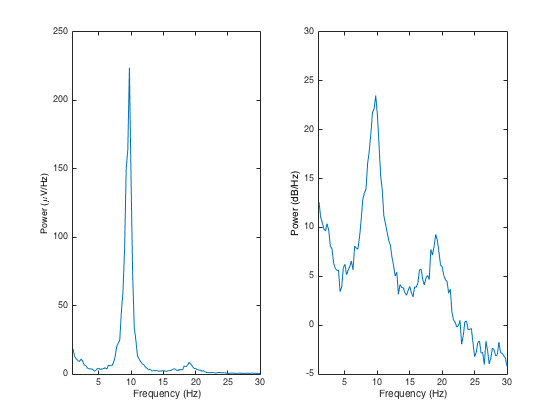
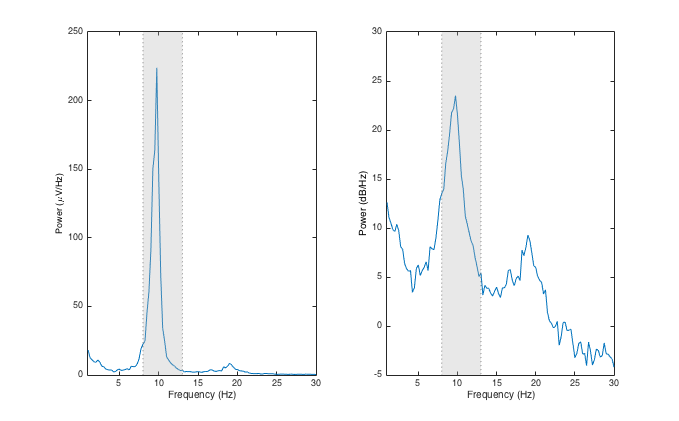
add alpha band indicators to eg paf figs

diff --git a/iaf_manu.md b/iaf_manu.md
@@ -45,10 +45,10 @@ $$ PAF = \text{arg max}_{\substack{x\in A \subseteq PSD }} f(x) \iff \text{arg m
 $$ \text{arg max}_{\substack{x\in A \subseteq PSD }} f(x) := \{ x \mid x  \in A \land \forall y \in A : f(y) \leq f(x) \} , $$
 
 where $\text{arg max}$ returns the frequency bin (or subset of bins) $f(x)$ containing the maximal power value $\text{max } f(x)$ registered within that subset of frequency bins $A$ that constitute the alpha band, and where $PSD$ denotes the complete set of frequency bins resolved by the spectral analysis. 
-Note that, for the output of $\text{arg max }$ to qualify as an estimate of PAF, it must return a single frequency bin $f(x)$ containing a power value exceeding $\phi$, where $\phi$ defines the minimal threshold differentiating a substantive spectral peak from background noise. 
+Note that, for the output of $\text{arg max}$ to qualify as an estimate of PAF, it must return a single frequency bin $f(x)$ containing a power value exceeding $\phi$, where $\phi$ defines the minimal threshold differentiating a substantive spectral peak from background noise. 
 The definition of both $A$ and $\phi$ parameters pose non-trivial problems, to which we shall return shortly.
 
-![*Fig_s6_paf_poz.* Power spectral density (PSD) plots displaying average variance of the EEG signal recorded over POz for frequency bins resolved in the range of 1 to 30 Hz. PSD estimates derived from a 2 min eyes-closed resting-state EEG recording. *Left panel*: Linear scaled PSD. Strong alpha band activity is evidenced by a sharp component spanning ~7.5 to 12.5 Hz, and peaking at ~9.75 Hz. *Right panel*: Alternative depiction of PSD displayed in the left panel, where ordinate data have been base-10 log-transformed (note, some researchers likewise tranform the frequency axis when depicting log-transformed PSDs). In this case, log-transformation has the effect of accentuating the relatively minor peak detected in the beta range of the spectrum (this activity approximates the first harmonic of the dominant alpha rhythm).](s6_paf_poz.png){#s6_paf_poz}
+![*Fig_s6_paf_poz.* Power spectral density (PSD) plots displaying average variance of the EEG signal recorded over POz for frequency bins resolved in the range of 1 to 30 Hz. PSD estimates derived from a 2 min eyes-closed resting-state EEG recording. Light grey column signifies alpha band interval, which constitutes the peak frequency search window. *Left panel*: Linear scaled PSD. Strong alpha band activity is evidenced by a sharp component spanning ~7.5 to 12.5 Hz, and peaking at ~9.75 Hz. *Right panel*: Alternative depiction of left panel PSD in which ordinate data have been base-10 log-transformed (note, some researchers likewise tranform the frequency axis when depicting log-transformed PSDs). In this case, log-transformation has the effect of accentuating the relatively minor peak detected in the beta range of the spectrum (this activity approximates the first harmonic of the dominant alpha rhythm).](s6_paf_poz.png){#s6_paf_poz}
 
 PAF estimates are typically extracted from parieto-occipital EEG channels while the participant relaxes with their eyes closed.
 This strategy exploits the classic observation that alpha oscillations dominate the EEG recorded over centro-posterior scalp regions when visual sensory input is suppressed [@barry2007;@sadaghiani2016]. 
@@ -57,7 +57,7 @@ Moreover, it is well documented that a sizeable proportion of individuals fail t
 Under the former circumstances, the adjudicator<!-- AC: this term has proved controversial. i deliberately wanted to underscore the tacit subjectivity involved in judging whether a given PSD manifests a (singular) peak. i'm open to alteratives but would like to retain this connotation, if possible. --> must decide whether a single, primary peak can be justifiably discerned amidst competing peak candidates; under the latter, they must decide whether the signal is too noisy to derive reliable inferences pertaining to IAF. 
 Cases such as these may be prone to biased or inconsistent assessment, pose significant challenges to the replicability of analytic procedures, and can result in the exclusion of a substantial subset of participants from IAF-related analyses [see for e.g., @bornkessel-schlesewsky2015].
 
-![*Fig_bad_pafs.* Examples of problematic cases for peak alpha frequency identification. *Left panel*: Multiple peaks resolved within alpha band range. *Central panel*: Split- (or bimodal) alpha peak. *Right panel*: No discernable alpha peak. Note differences in the ordinate scaling of plots.](bad_pafs.png){#bad_pafs}
+![*Fig_bad_pafs.* Examples of problematic cases for peak alpha frequency identification. *Left panel*: Multiple peaks resolved within alpha band window (grey column). *Central panel*: Split- (or bimodal) alpha peak. *Right panel*: No discernable alpha peak. Note differences in the ordinate scaling of plots.](bad_pafs.png){#bad_pafs}
 
 While simple automated peak detection methods are relatively straightforward to implement in many popular EEG processing software packages, such strategies are prone to various sources of error. 
 For instance, searching for the maximal power estimate $\text{max } f(x)$ within the alpha window $A$ can result in the arbitrary assignment of PAF at $f_1$, the lower bound of $A$. 
@@ -85,7 +85,7 @@ Second, $f_1$ and $f_2$ are assigned to those frequency bins where the ascending
 Finally, these channel-wise $f_1$ and $f_2$ values are averaged to render the bounds of the frequency interval that will be used to calculate the participant’s CoG. 
 Notice that, even though EEG channels that fail to manifest distinctive peaks do not contribute to the definition of the IAF bandwidth, the CoG is computed on the basis of spectral data compiled from $f_1 – f_2$<!-- AC: is it better to use colon notation here ? or elipses ? --> across all available channels.
 
-![*Fig_f1f2.* Fixed vs. individually adapted alpha frequncy band windows. *Left panel*: Individual bandwidth (indicated by shaded area under PSD) closely approximates the standard alpha band range (8-13 Hz), indicated by the grey column. *Central panel*: Fixed bandwidths may fail to adequately capture broader alpha peak distributions, thus giving rise to biased estimates of alpha centre of gravity. *Right panel*: Spectral density from central panel reproduced with superposed eyes-open resting-state spectral estimates (red function). Here, the transition frequency (TF) at which the ascending edge of the eyes-closed alpha peak intersects with (and surpasses) the corresponding eyes-open power estimates (indicated by the broken black line) closely approximates the lower bound of the alpha interval $f_1$ located via qualitative analysis of the plot. In this case, the empirical TF of ~6.25 Hz deviates from standard definitions of the theta/alpha boundary, which is typically assigned in the range of 7-8 Hz. Power estimates log-scaled to aid visual identification of $f_1$ and $f_2$ [@klimesch1997].](f1f2.png){#f1f2}
+![*Fig_f1f2.* Fixed vs. individually adapted alpha frequncy band windows. *Left panel*: Individual bandwidth (indicated by shaded area under PSD) closely approximates the standard alpha band range indicated by the grey column. *Central panel*: Fixed bandwidths may fail to adequately capture broader alpha peak distributions, thus giving rise to biased estimates of alpha centre of gravity. *Right panel*: Spectral density from central panel reproduced with superposed eyes-open resting-state spectral estimates (red function). Here, the transition frequency (TF) at which the ascending edge of the eyes-closed alpha peak intersects with (and surpasses) the corresponding eyes-open power estimates (indicated by the broken black line) closely approximates the lower bound of the alpha interval $f_1$ located via qualitative analysis of the plot. In this case, the empirical TF of ~6.25 Hz deviates from standard definitions of the theta/alpha boundary, which is typically assigned in the range of 7-8 Hz. Power estimates log-scaled to aid visual identification of $f_1$ and $f_2$ [@klimesch1997].](f1f2.png){#f1f2}
 
 Klimesch [@klimesch1999] later proposed an alternative method for defining individualised alpha-band windows that relies on a somewhat less subjective interpretation of the PSD. 
 This technique exploits the typically observed anticorrelation between theta band [4–8 Hz; @noachtar1999] and alpha oscillatory dynamics in response to task demands or cognitive load [@doppelmayr1998a; @klimesch1996a; cf. @rugg1982]. 
@@ -95,20 +95,23 @@ Klimesch [@klimesch1999] proposed generalising this procedure to resting-state E
 This method thus renders a systematic means of estimating the lower alpha frequency bound $f_1$. 
 
 In the absence of any analogous means of inferring the upper bound of the alpha-band window, Klimesch [@klimesch1999] recommended determining $f_2$ on the basis of $f_1$ and the IAF.
-One suggestion was to set $f_2$ rather pragmatically at 1-2 Hz above the IAF, or alternatively to subtract the difference between IAF and $f_1$ (i.e. the lower alpha band) from some presupposed alpha bandwidth (e.g., if the alpha interval is assumed to span 5 Hz, and the individual manifests a TF of 7 Hz and an IAF of 10.5 Hz, $f_2 = 5 - (10.5 - 7) + 10.5 = 12$ Hz). 
+One suggestion was to set $f_2$ rather pragmatically at 1-2 Hz above the IAF (([Fig_findf2](#findf2)), left panels).
+Alternatively, the difference between IAF and $f_1$ (i.e. the lower alpha band) could be subtracted from some presupposed alpha bandwidth.
+For instance, if the alpha interval is assumed to span 5 Hz, and the individual manifests a TF of 7 Hz and an IAF of 10.5 Hz, then $f_2 = 5 - (10.5 - 7) + 10.5 = 12$ Hz (([Fig_findf2](#findf2)), central panels). 
 Although these approaches do indeed adjust the value of $f_2$ in relation to the IAF, they are insensitive to interindividual differences in alpha bandwidth [@doppelmayr1998; @goljahani2012]. 
-A more promising solution that attempts to capture such variance is given by calculating $f_2$ as a proportion of the difference between IAF and $f_1$ [@doppelmayr1998;@klimesch1999]; e.g., $f_2 = ( (IAF - f_1) / 2 ) + IAF$. While this heuristic offers a more nuanced approach towards individually adapted estimates of $f_2$, it clearly depends on the assumption that the proportional difference between IAF and alpha bandwidth is consistent across individuals (such that the lower alpha band spans approximately double the frequency range of the upper alpha band).
+A more promising solution that attempts to capture such variance is given by calculating $f_2$ as a proportion of the difference between IAF and $f_1$ [@doppelmayr1998;@klimesch1999]; e.g., $f_2 = ( (IAF - f_1) / 2 ) + IAF$ (([Fig_findf2](#findf2)), right panels). 
+While this heuristic offers a more nuanced approach towards individually adapted estimates of $f_2$, it clearly depends on the assumption that the proportional difference between IAF and alpha bandwidth is consistent across individuals (such that the lower alpha band spans approximately double the frequency range of the upper alpha band).
 Furthermore, all of these methods presuppose that IAF has already been estimated via the PAF (since CoG cannot be calculated prior to the definition of $f_1$ and $f_2$). 
 This is obviously problematic given that one of the chief advantages of the CoG is its supposed capacity to deliver IAF estimates when the PAF is unavailable.
 
-![*Fig_findf2.* Application of three procedures for deducing $f_2$ (right-most broken line) to the two channel spectra presented in ([Fig_f1f2](#f1f2)). In each case, $f_1$ (left-most broken line) is defined according to the transition frequency (TF), and IAF (solid line) is defined according to the peak frequency. *Top row*: Defining $f_2$ as $IAF + 2 Hz$ (left panel) and $IAF + (IAF - TF)$ (right panel) render similar results. However, defining $f_2$ as the residual of a fixed bandwidth (6 Hz) following subtraction of the lower alpha band (blue patch) fails, collapsing $f_2$ into the IAF on account of the low TF (and a consequently broad lower alpha sub-band). *Bottom row*: All three methods perform similarly to one another. In each case, the upper alpha band (red patch) appears suboptimally narrow.](findf2.png){#findf2}
+![*Fig_findf2.* Application of three procedures for deducing $f_2$ (right-most broken line) to the two channel spectra presented in ([Fig_f1f2](#f1f2)). In each case, $f_1$ (left-most broken line) is defined according to the transition frequency (TF), and IAF (solid line) is defined according to the peak frequency. *Top row*: Defining $f_2$ as $IAF + 2 Hz$ (left panel) and $IAF + (IAF - TF)$ (right panel) render similar results. However, defining $f_2$ as the residual of a fixed bandwidth (6 Hz) following subtraction of the lower alpha band (blue shading) fails, collapsing $f_2$ into the IAF on account of the low TF (and a consequently broad lower alpha sub-band). *Bottom row*: All three methods return similar estimates of $f_1$ when the lower alpha region conforms to the anticipated 3.5-4 Hz bandwidth. In this case, the upper alpha bandwidth (red shading) appears suboptimally narrow.](findf2.png){#findf2}
 
 ### 1.3 Peak attenuation and channel reactivity based (CRB) methods
 We turn now to two interesting extensions of the TF approach that depend on the alpha blocking or desynchronisation phenomenon mentioned above. 
 The first method, which we refer to as peak attenuation, was described by @posthuma2001.
 Similar in principle to Klimesch's [@klimesch1999]<!-- AC: check how to be more flexible with citation format --> delineation of the TF, this technique simply subtracts eyes-oped PSD estimates from the corresponding ordinates of the eyes-closed PSD within some a priori defined alpha-band window (e.g., 7 – 14 Hz).
 The resulting peak, which constitutes the maximal power difference between the two spectra, is taken as the PAF. 
-To avoid trivial peaks arising from small fluctuations in the PSD, Posthuma and colleagues excluded spectra featuring consistently low power estimates (< 1.5 $\mu$V/Hz) within the alpha-band. 
+To avoid trivial peaks arising from small fluctuations in the PSD, Posthuma and colleagues excluded spectra featuring consistently low power estimates (< 1.5 $\mu$V/Hz) within the alpha-band. <!-- AC: They report 1.5mV, but is it safe to assume they probably meant 1.5 mV^2^ ? -->
 It isn’t clear, however, whether this criterion (which is analagous to the $\phi$ parameter in the PAF equation defined above) was also applied in cases where the maximal difference between spectra was similarly small (i.e. where both spectra present a substantive, near overlapping alpha-band component).
 Posthuma and colleagues also remarked that peak attenuation estimates deviated from eyes-closed resting-state PAFs in 21% of cases. 
 This lack of convergence, coupled with the observation that peak attenuation may lead to distorted representations of the PAF when the assumption of significant eyes-open alpha desynchronisation fails to obtain [cf. @kreitman1965]<!-- AC: refer to fig where peak est shifted, ? refer to ind diffs in EO/EC alpha-->, suggests peak attenuation may constitute a suboptimal estimator of IAF (at least insofar as IAF is conceived in terms of the PAF).
